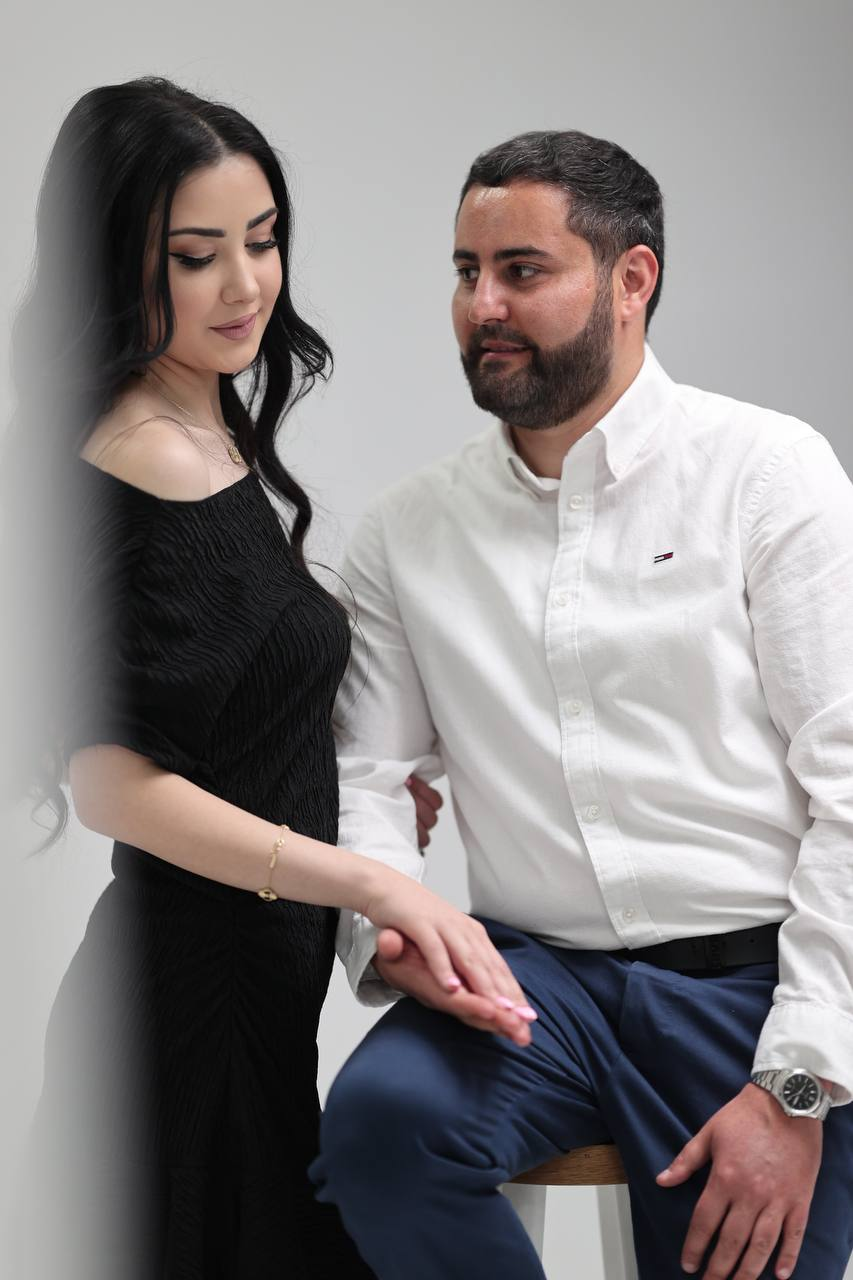
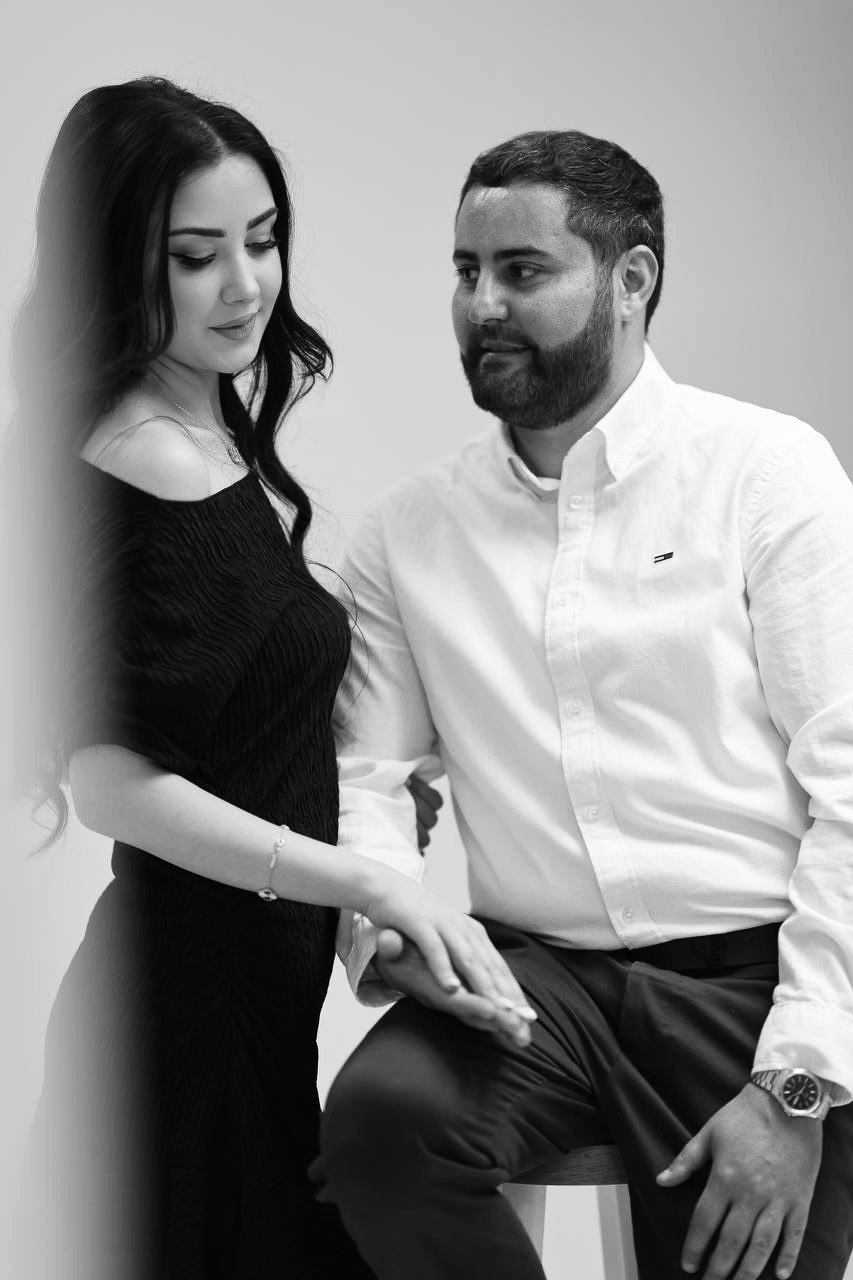
poiugfd

diff --git a/index.html b/index.html
@@ -9,10 +9,6 @@
     <meta property="og:url" content="https://vahagn-maria.vercel.app/" />
     <meta property="og:title" content="Վահագն և Մարիա | Հարսանյաց Հրավեր" />
     <meta
-      property="og:description"
-      content="Սիրով հրավիրում ենք ձեզ կիսելու մեր կյանքի ամենակարևոր օրը:"
-    />
-    <meta
       property="og:image"
       content="https://vahagn-maria.vercel.app/wedding.jpg"
     />
@@ -21,10 +17,7 @@
     <meta property="twitter:card" content="summary_large_image" />
     <meta property="twitter:url" content="https://vahagn-maria.vercel.app/" />
     <meta property="twitter:title" content="Վահագն և Մարիա | Հարսանյաց Հրավեր" />
-    <meta
-      property="twitter:description"
-      content="Սիրով հրավիրում ենք ձեզ կիսելու մեր կյանքի ամենակարևոր օրը:"
-    />
+
     <meta
       property="twitter:image"
       content="https://vahagn-maria.vercel.app/wedding.jpg"

diff --git a/src/components/second-page/index.jsx b/src/components/second-page/index.jsx
@@ -99,17 +99,17 @@ export const SecondPage = () => {
             <img
               src={PhotoGroup1}
               alt=""
-              className="h-1/2 object-cover rounded-[10px] grayscale"
+              className="h-1/2 object-cover rounded-[10px] grayscale-70"
             />
             <img
               src={PhotoGroup2}
               alt=""
-              className="h-1/2 object-cover rounded-[10px] grayscale"
+              className="h-1/2 object-cover rounded-[10px] grayscale-70"
             />
             {/* <img
               src={PhotoGroup3}
               alt=""
-              className="h-1/3 object-cover rounded-[10px] grayscale"
+              className="h-1/3 object-cover rounded-[10px] grayscale-70"
             /> */}
           </div>
         </div>
@@ -141,7 +141,7 @@ export const SecondPage = () => {
           )}
         </ThirdPagePartCalendar>
 
-        <img src={PhotoF1} alt="" className="rounded-[15px] mt-[50px] grayscale" />
+        <img src={PhotoF1} alt="" className="rounded-[15px] mt-[50px] grayscale-70" />
       </Container>
     </SecondPagePart>
   );

diff --git a/src/components/first-page/index.jsx b/src/components/first-page/index.jsx
@@ -5,7 +5,7 @@ import { FirstPagePart, FirstPagePartContext } from "./styled";
 export const FirstPage = () => {
   return (
     <FirstPagePart>
-      <img className="grayscale" src={MainPhoto} />
+      <img className="grayscale-70" src={MainPhoto} />
       <Container>
         <FirstPagePartContext>
           <div